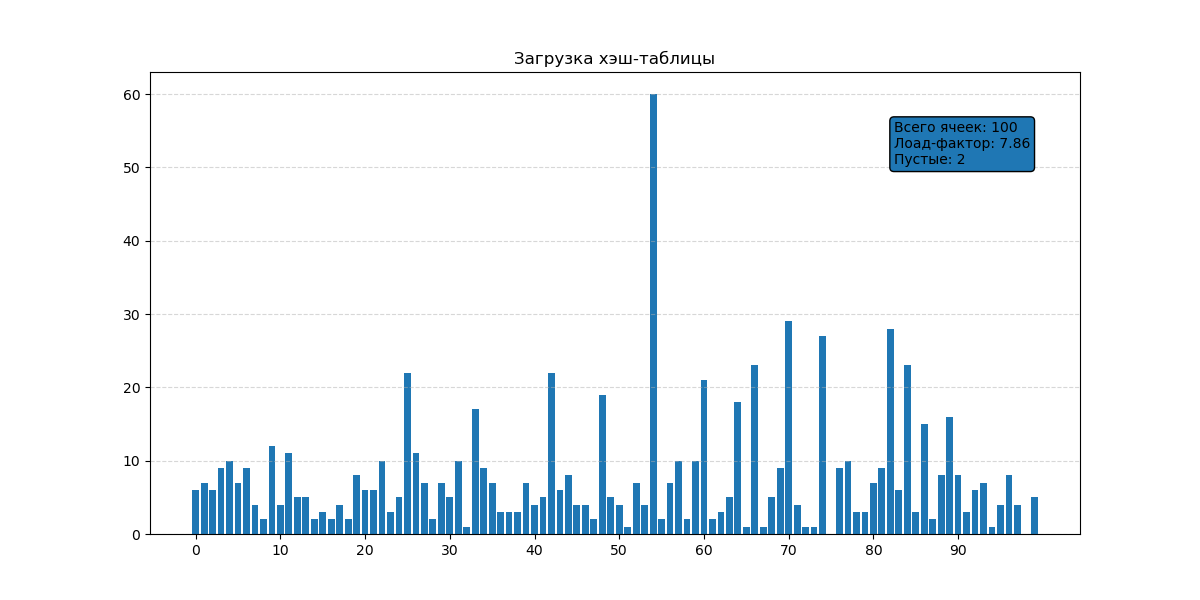
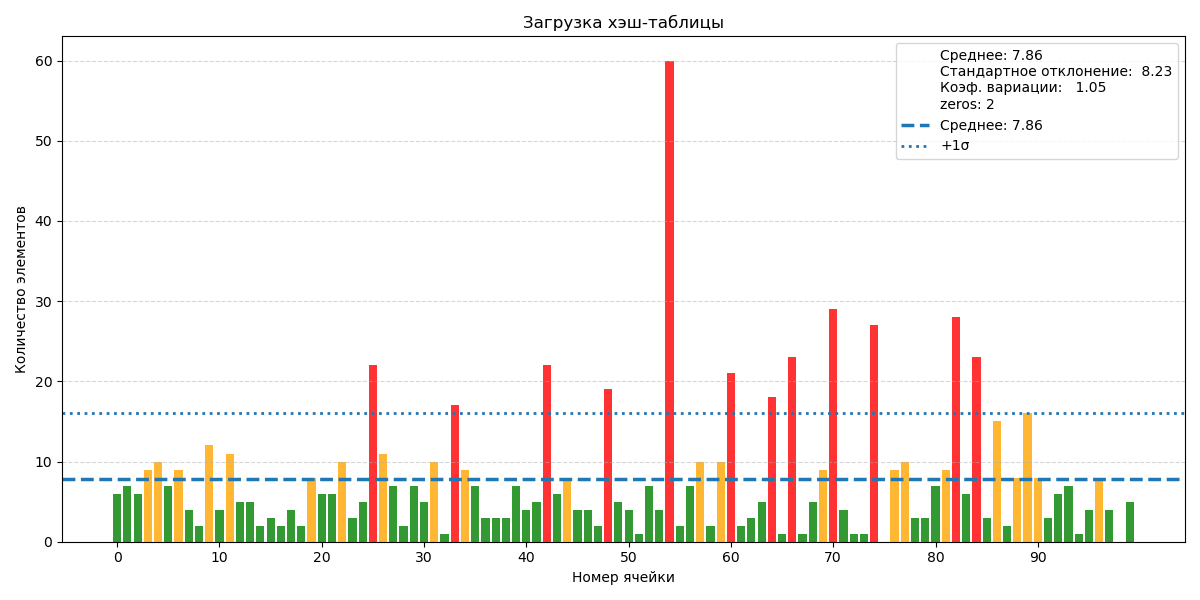
good diagrams building is ready

diff --git a/src/measures/handler.cpp b/src/measures/handler.cpp
@@ -6,11 +6,15 @@
 #include <stdio.h>
 #include <assert.h>
 #include <stdlib.h>
+#include <malloc.h>
+#undef log 
+#include <math.h>
 
 const char* PYTHON_FILE_NAME = "diagram.py";
 
-void buildHashTableDiagram(hashTable_t* hashTable, const char* fileName){
-    assert(hashTable);
+void buildDiagram(int* x, int* y, int nValues, const char* fileName){
+    assert(x);
+    assert(y);
     assert(fileName);
 
     fileDescription diagramFileDesc = {
@@ -25,20 +29,19 @@ void buildHashTableDiagram(hashTable_t* hashTable, const char* fileName){
     fprintf(pyDiagramFile, "import numpy as np\n");
 
     fprintf(pyDiagramFile, "cellNum = [");
-    for(size_t i = 0; i < HASH_TABLE_SIZE(hashTable); i++){
-        fprintf(pyDiagramFile, "'%d'", i);
-        if(i != (HASH_TABLE_SIZE(hashTable) - 1)) fprintf(pyDiagramFile, ",");
+    for(size_t i = 0; i < nValues; i++){
+        fprintf(pyDiagramFile, "'%d'", x[i]);
+        if(i != (nValues - 1)) fprintf(pyDiagramFile, ",");
     }
     fprintf(pyDiagramFile, "]\n");
 
     fprintf(pyDiagramFile, "plt.figure(figsize=(12, 6))\n");    
 
     fprintf(pyDiagramFile, "values = [");    
-    for(size_t i = 0; i < HASH_TABLE_SIZE(hashTable); i++){
-        hashTableCell_t* curCell = &(HASH_TABLE_CELLS(hashTable)[i]);
-        fprintf(pyDiagramFile, "%d", HASH_TABLE_CELL_VALUE(curCell).size);
+    for(size_t i = 0; i < nValues; i++){
+        fprintf(pyDiagramFile, "%d", y[i]);
 
-        if(i != (HASH_TABLE_SIZE(hashTable) - 1)) fprintf(pyDiagramFile, ", ");
+        if(i != (nValues - 1)) fprintf(pyDiagramFile, ", ");
     }
     fprintf(pyDiagramFile, "]\n");
 
@@ -46,30 +49,89 @@ void buildHashTableDiagram(hashTable_t* hashTable, const char* fileName){
 
     fprintf(pyDiagramFile, "plt.grid(axis='y', linestyle='--', alpha=0.5)\n");
 
-    fprintf(pyDiagramFile, "plt.bar(cellNum, values)\n");
+    fprintf(pyDiagramFile, "plt.xlabel('Номер ячейки')\n");
+    fprintf(pyDiagramFile, "plt.ylabel('Количество элементов')\n");
 
     fprintf(pyDiagramFile, "plt.title(\"Загрузка хэш-таблицы\")\n");
 
-    float loadFactor = (float) HASH_TABLE_AMOUNT_ELEMENTS(hashTable) / (float) HASH_TABLE_SIZE(hashTable);
+    float mean = countMean(y, nValues);
+    float std  = countStd(y, nValues, mean);
+    float cv   = std / mean;
+
+    // показываем цветами выход из нормы
+    fprintf(pyDiagramFile, "mean = %.2f\n", mean);
+    fprintf(pyDiagramFile, "std = %.2f\n",  std);
+
+    fprintf(pyDiagramFile, "colors = []\n");
+    fprintf(pyDiagramFile, "for v in values:\n",             std);
+    fprintf(pyDiagramFile, "\tif v > mean + std:\n",         std);
+    fprintf(pyDiagramFile, "\t\tcolors.append('red')\n",     std);
+    fprintf(pyDiagramFile, "\telif v > mean:\n",             std);
+    fprintf(pyDiagramFile, "\t\tcolors.append('orange')\n",  std);
+    fprintf(pyDiagramFile, "\telse:\n",  std);
+    fprintf(pyDiagramFile, "\t\tcolors.append('green')\n",   std);
+    
+    fprintf(pyDiagramFile, "plt.bar(cellNum, values, color = colors, alpha=0.8)\n");
 
     fprintf(pyDiagramFile, "stats = (\n");
-    fprintf(pyDiagramFile, "f\"Лоад-фактор: %.2f\\n\"\n", loadFactor);
-    fprintf(pyDiagramFile, "f\"Пустые: {values.count(0)}\"\n");
+    fprintf(pyDiagramFile, "f\"Среднее: %.2f\\n\"\n", mean);
+    fprintf(pyDiagramFile, "f\"Стандартное отклонение:  %.2f\\n\"\n", std );
+    fprintf(pyDiagramFile, "f\"Коэф. вариации:   %.2f\\n\"\n", cv  );
+    fprintf(pyDiagramFile, "f\"zeros: {values.count(0)}\"\n");
     fprintf(pyDiagramFile, ")\n");
 
+    fprintf(pyDiagramFile, "plt.plot([], [], ' ', label=stats)\n");
 
-    fprintf(pyDiagramFile, "plt.text(0.8, 0.8, stats, transform=plt.gca().transAxes, bbox=dict(boxstyle=\"round\"))\n");
+    fprintf(pyDiagramFile, "plt.legend(loc='best')\n");
 
-    // создаем линию лоад-фактора
-    fprintf(pyDiagramFile, "plt.axhline(x = %d, linestyle = '--')\n", loadFactor);
+    // создаем линию mean
+    fprintf(pyDiagramFile, "plt.axhline(y = %.2f, linewidth = 2.5, linestyle = '--', label=f'Среднее: %.2f')\n", mean, mean);
+    
+    // создаем линии std
+    fprintf(pyDiagramFile, "plt.axhline(y = %.2f, linewidth = 2, linestyle = ':', label=f'+1σ')\n", mean + std);
+    if(mean - std > 0){
+        fprintf(pyDiagramFile, "plt.axhline(y = %.2f, linestyle = ':', label=f'-1σ')\n", mean - std);
+    }
+
+    fprintf(pyDiagramFile, "plt.legend()\n");
+
+    fprintf(pyDiagramFile, "plt.tight_layout()\n");
     
     fprintf(pyDiagramFile, "plt.savefig('%s')\n", fileName);
 
     fclose(pyDiagramFile);
 
     char buildDiagCommand[30] = "";
-    sprintf(buildDiagCommand, "python3 %s", PYTHON_FILE_NAME);
+    snprintf(buildDiagCommand, sizeof(buildDiagCommand), "python3 %s", PYTHON_FILE_NAME);
     system(buildDiagCommand);
 }
 
-double countStd()
+float countMean(int* value, int nValues){
+    assert(value);
+
+    float mean = 0.0;
+
+    for(size_t i = 0; i < nValues; i++){
+        mean += value[i];
+    }
+
+    mean /= nValues;
+
+    return mean;
+}
+
+float countStd(int* value, int nValues, float mean){
+    assert(value);
+
+    float std = 0.0;
+
+    for(size_t i = 0; i < (size_t) nValues; i++){
+        std += (value[i] - mean) * (value[i] - mean); 
+    }
+
+    std /= nValues;
+
+    std = sqrt(std);
+
+    return std;
+}

diff --git a/diagram.py b/diagram.py
@@ -5,12 +5,30 @@ plt.figure(figsize=(12, 6))
 values = [6, 7, 6, 9, 10, 7, 9, 4, 2, 12, 4, 11, 5, 5, 2, 3, 2, 4, 2, 8, 6, 6, 10, 3, 5, 22, 11, 7, 2, 7, 5, 10, 1, 17, 9, 7, 3, 3, 3, 7, 4, 5, 22, 6, 8, 4, 4, 2, 19, 5, 4, 1, 7, 4, 60, 2, 7, 10, 2, 10, 21, 2, 3, 5, 18, 1, 23, 1, 5, 9, 29, 4, 1, 1, 27, 0, 9, 10, 3, 3, 7, 9, 28, 6, 23, 3, 15, 2, 8, 16, 8, 3, 6, 7, 1, 4, 8, 4, 0, 5]
 plt.xticks(range(0, len(cellNum), 10))
 plt.grid(axis='y', linestyle='--', alpha=0.5)
-plt.bar(cellNum, values)
+plt.xlabel('Номер ячейки')
+plt.ylabel('Количество элементов')
 plt.title("Загрузка хэш-таблицы")
+mean = 7.86
+std = 8.23
+colors = []
+for v in values:
+	if v > mean + std:
+		colors.append('red')
+	elif v > mean:
+		colors.append('orange')
+	else:
+		colors.append('green')
+plt.bar(cellNum, values, color = colors, alpha=0.8)
 stats = (
-f"Всего ячеек: {len(values)}\n"
-f"Лоад-фактор: 7.86\n"
-f"Пустые: {values.count(0)}"
+f"Среднее: 7.86\n"
+f"Стандартное отклонение:  8.23\n"
+f"Коэф. вариации:   1.05\n"
+f"zeros: {values.count(0)}"
 )
-plt.text(0.8, 0.8, stats, transform=plt.gca().transAxes, bbox=dict(boxstyle="round"))
+plt.plot([], [], ' ', label=stats)
+plt.legend(loc='best')
+plt.axhline(y = 7.86, linewidth = 2.5, linestyle = '--', label=f'Среднее: 7.86')
+plt.axhline(y = 16.09, linewidth = 2, linestyle = ':', label=f'+1σ')
+plt.legend()
+plt.tight_layout()
 plt.savefig('images/diagrams/gnuHashLoad.png')

diff --git a/src/main.cpp b/src/main.cpp
@@ -1,4 +1,5 @@
 #include "hashtable.h"
+#include "DSL.h"
 
 #include "general/debug.h"
 #include "general/file.h"
@@ -8,6 +9,7 @@
 #include <stdio.h>
 #include <string.h>
 #include <assert.h>
+#include <malloc.h>
 
 const size_t MAX_FILE_NAME_LENGTH = 64;
 
@@ -52,7 +54,19 @@ int main(int argc, char* argv[]){
     //     listGraphDump(&hashTable.cells[i].value);
     // }
 
-    buildHashTableDiagram(&hashTable, "images/diagrams/gnuHashLoad.png");
+    int* cellNumber       = (int*) calloc(HASH_TABLE_SIZE((&hashTable)), sizeof(int));
+    assert(cellNumber);
+    int* cellAmountLoaded = (int*) calloc(HASH_TABLE_SIZE((&hashTable)), sizeof(int));
+    assert(cellAmountLoaded);
+
+    for(size_t i = 0; i < HASH_TABLE_SIZE((&hashTable)); i++){
+        cellNumber[i] = i;
+
+        hashTableCell_t* curCell = &(HASH_TABLE_CELLS((&hashTable))[i]);
+        cellAmountLoaded[i] =  HASH_TABLE_CELL_VALUE(curCell).size;
+    }
+
+    buildDiagram(cellNumber, cellAmountLoaded, HASH_TABLE_SIZE((&hashTable)), "images/diagrams/gnuHashLoad.png");
 
 
     // hashTableFind(&hashTable, testStr, &cellNum);

diff --git a/src/measures/handler.h b/src/measures/handler.h
@@ -3,6 +3,9 @@
 
 #include "hashTable.h"
 
-void buildHashTableDiagram(hashTable_t* hashTable, const char* fileName);
+void buildDiagram(int* x, int* y, int nValues, const char* fileName);
+
+float countMean(int* value, int nValues);
+float countStd(int* value, int nValues, float mean);
 
 #endif /* HANDLER_H */
